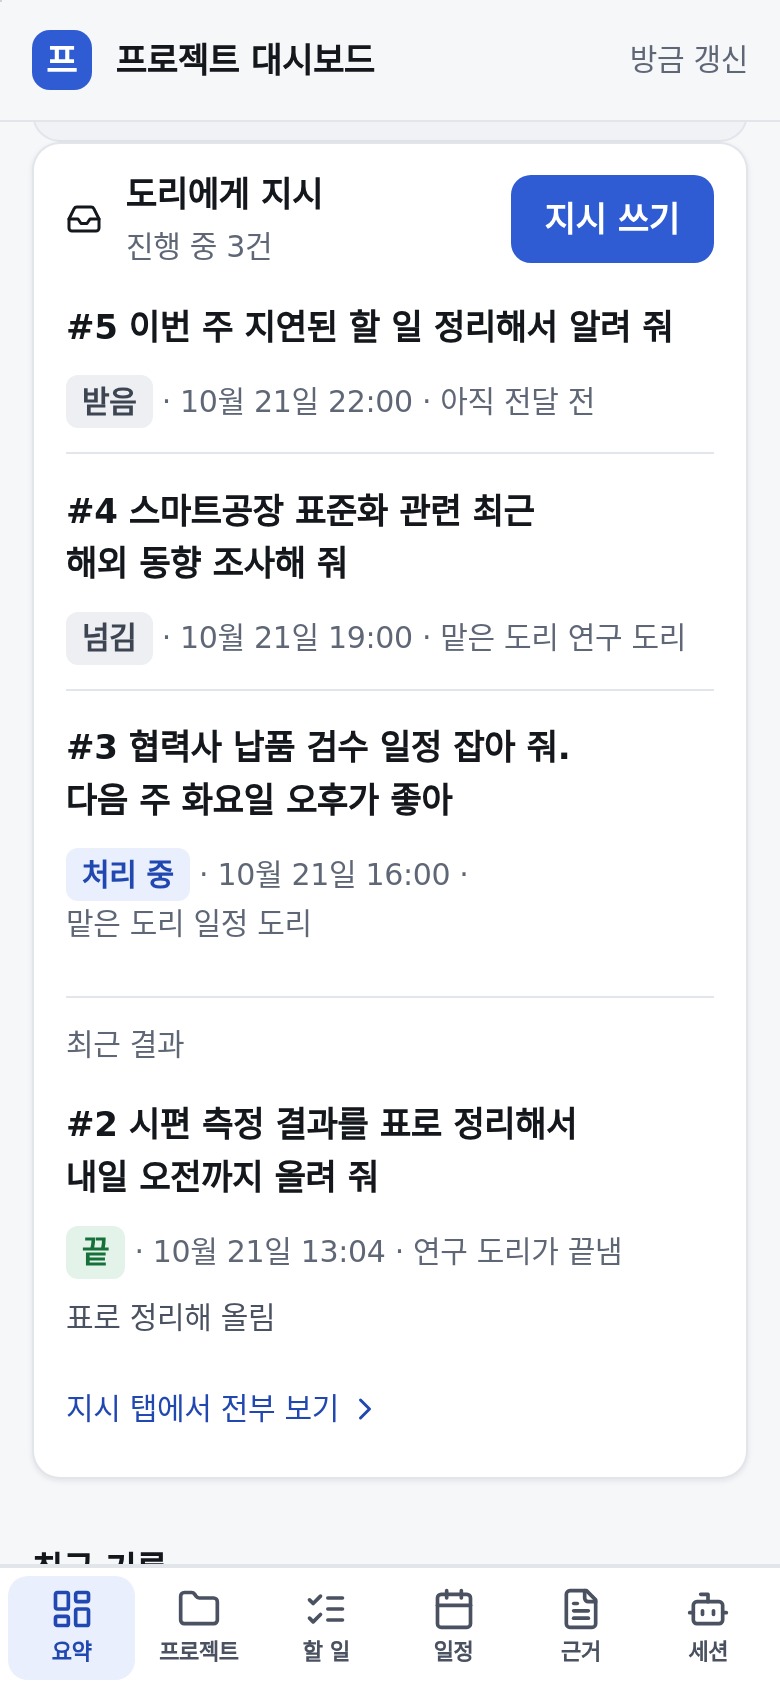
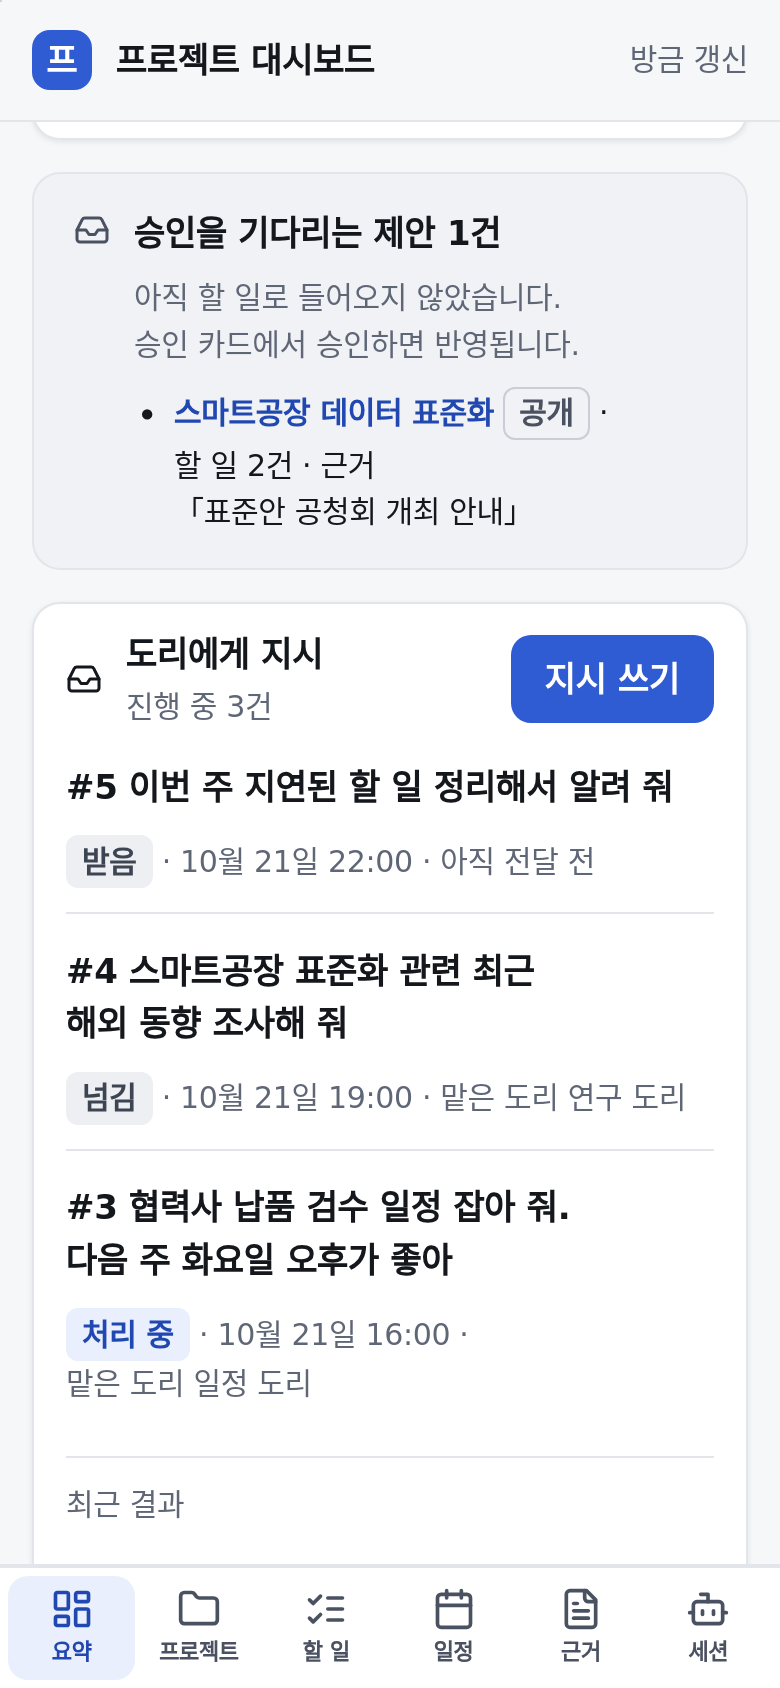
docs(project-board): the dashboard guide names the one card gap and the layout audit's gap check, with before and after captures of the summary

diff --git a/docs/guide/프로젝트-대시보드.md b/docs/guide/프로젝트-대시보드.md
@@ -104,7 +104,9 @@ PLAYWRIGHT_DIR=<node_modules/playwright 가 있는 폴더> node automation/proje
 `--url`이 없으면 데모를 스스로 띄우고 끝에 닫는다. 모든 탭, `#archive`, 화면에 링크된 `#todo/`·`#person/`·`#project/`·원문 화면을
 폰(390x844, 주소창이 펼쳐진 390x664)과 데스크톱(1440), 밝은·어두운 모드로 열어 찾는다: 서로 다른 요소의 글자 줄·배지·버튼이
 같은 자리를 차지함(겹침), 넘침으로 잘린 글자(「…」 말줄임 포함), 화면 밖 글자, 줄 맨 앞에 떨어진 구분점 「·」, 가로 스크롤, 11px 미만 글씨, 끝까지 내렸을 때
-아래 탭에 가린 내용. 찾은 것마다 `FINDING` 한 줄, 없으면 종료 코드 0, 있으면 1, 실행할 수 없으면 2(`LAYOUT-AUDIT-UNAVAILABLE`).
+아래 탭에 가린 내용, 이웃한 카드(카드·지표 타일·안내 상자, 위아래나 옆) 사이가 간격 토큰 `--gap-card`와 다름(`gap` — 2026-10-22
+소유자 "균일한 간격을 가져야지", 요약의 세션 카드와 「도리에게 지시」 상자가 0px로 붙었다. 토큰의 2.5배를 넘는 간격은 사이에 제목이
+있는 것이라 세지 않는다). 찾은 것마다 `FINDING` 한 줄, 없으면 종료 코드 0, 있으면 1, 실행할 수 없으면 2(`LAYOUT-AUDIT-UNAVAILABLE`).
 입력칸 안 아이콘처럼 글자가 없는 아이콘과 상자의 겹침은 설계라 세지 않는다. 사파리 엔진(WebKit)을 꼭 함께 돌린다:
 2026-10-21 할 일 화면의 보안 등급·근거 겹침은 WebKit에서만 생겼다. `--url`로 실 대시보드를 재면 읽기만 하고,
 캡처는 형 데이터이므로 비공개 자리에만 둔다. 로컬 CI에는 브라우저가 없어 돌지 않고, 화면을 바꾼 PR이 직접 돌려 결과를 싣는다.
@@ -183,6 +185,8 @@ MailOn 런타임의 `data/` 는 배포본에서 공유 상태 디렉터리(`mail
 (대외비·기관지정은 「외부 비공개」). 데스크톱과 390px 폭에서 가로 스크롤 없이 읽힌다.
 
 **모양**(2026-10-16 소유자 지시 "판매용으로"). 색·간격·글자 크기·모서리는 `dashboard_theme.py` 의 토큰 한 벌에서만 나오고
+(카드와 카드 사이는 어느 탭에서나 `--gap-card` 하나, 16px — 타일·프로젝트 카드 격자, 한 줄 카드, 안내 상자, 접기 묶음, 근거 카드,
+도리 지시 상자까지)
 어두운 모드는 같은 토큰을 덮어쓰는 한 블록이다 — 기기 설정(`prefers-color-scheme`)을 따른다. 머리에는 브랜드 자리(글자 마크와
 제품 이름, 기본 「프로젝트 대시보드」)와 파비콘이 있고, 휴대폰 폭(640px 이하)에서는 탭이 화면 아래 고정 탭 막대(아이콘+이름,
 높이 52px, 탭 일곱 개)가 된다. 누르는 것은 모두 44px 이상이고, 글자 대비는 밝은·어두운 모드 모두 4.5:1 이상이다(실제 브라우저로 잰 값).
